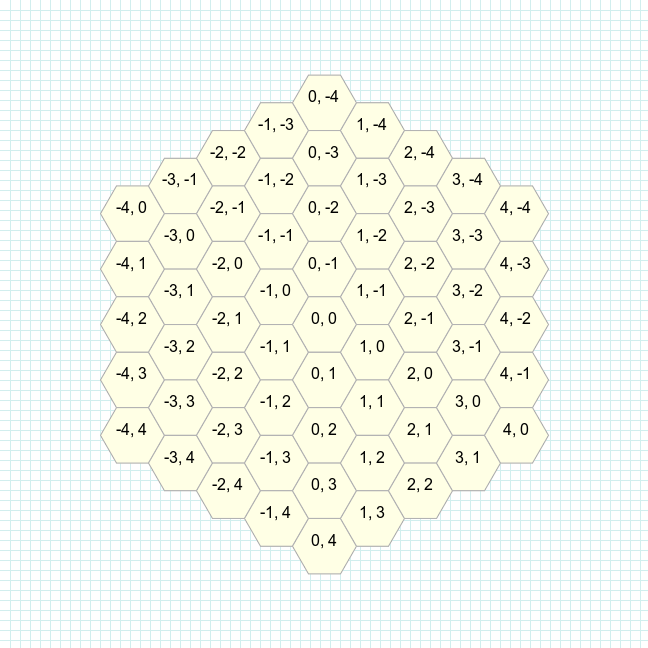
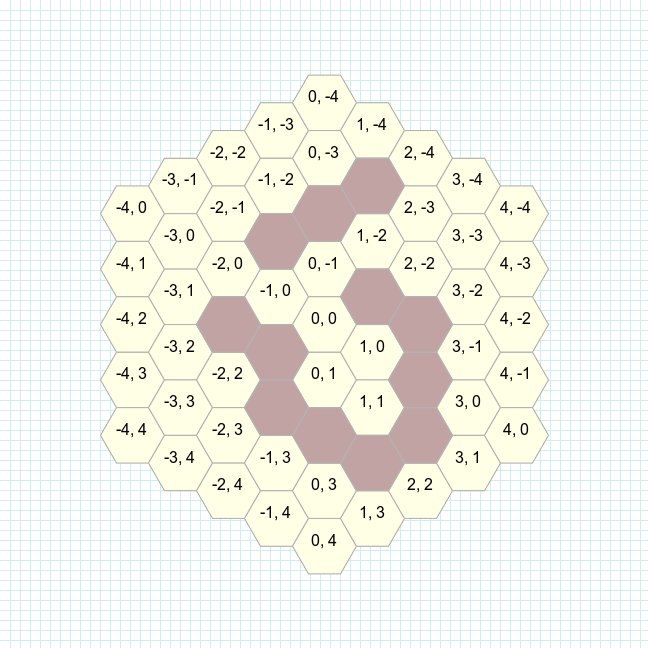
add image_config optional attr

Changed region(s): [[0.3086, 0.4012, 0.7099, 0.7716], [0.3704, 0.2469, 0.6173, 0.4321]]

diff --git a/lib/rhex/cube_hex.rb b/lib/rhex/cube_hex.rb
@@ -28,14 +28,15 @@ module Rhex
     ].freeze
     private_constant :DIRECTION_VECTORS, :INITIAL_RING_VECTOR
 
-    def initialize(q, r, s, data: nil) # rubocop:disable Naming/MethodParameterName
+    def initialize(q, r, s, data: nil, image_config: nil) # rubocop:disable Naming/MethodParameterName
       @q = q
       @r = r
       @s = s
       @data = data
+      @image_config = image_config
     end
 
-    attr_reader :q, :r, :s, :data
+    attr_reader :q, :r, :s, :data, :image_config
 
     def hash
       { q: q, r: r, s: s }.hash
@@ -80,7 +81,7 @@ module Rhex
     def neighbor(direction_index, grid: nil)
       direction_vector = DIRECTION_VECTORS[direction_index] || raise(NotInTheDirectionVectorsList)
 
-      hex = add(Rhex::CubeHex.new(*direction_vector, data: data))
+      hex = add(Rhex::CubeHex.new(*direction_vector, data: data, image_config: image_config))
       hex = grid.hget(hex) unless grid.nil?
       hex
     end
@@ -130,7 +131,7 @@ module Rhex
     end
 
     def to_axial
-      Rhex::AxialHex.new(q, r, data: data)
+      Rhex::AxialHex.new(q, r, data: data, image_config: image_config)
     end
 
     protected
@@ -155,7 +156,7 @@ module Rhex
       else
         rounded_s = -rounded_q - rounded_r
       end
-      Rhex::CubeHex.new(rounded_q, rounded_r, rounded_s, data: data)
+      Rhex::CubeHex.new(rounded_q, rounded_r, rounded_s, data: data, image_config: image_config)
     end
 
     private
@@ -165,16 +166,17 @@ module Rhex
         Math.lerp(q, hex.q, step),
         Math.lerp(r, hex.r, step),
         Math.lerp(s, hex.s, step),
-        data: data
+        data: data,
+        image_config: image_config
       )
     end
 
     def subtract(hex)
-      Rhex::CubeHex.new(q - hex.q, r - hex.r, s - hex.s, data: data)
+      Rhex::CubeHex.new(q - hex.q, r - hex.r, s - hex.s, data: data, image_config: image_config)
     end
 
     def add(hex)
-      Rhex::CubeHex.new(q + hex.q, r + hex.r, s + hex.s, data: data)
+      Rhex::CubeHex.new(q + hex.q, r + hex.r, s + hex.s, data: data, image_config: image_config)
     end
   end
 end

diff --git a/spec/lib/rhex/grid_to_pic_spec.rb b/spec/lib/rhex/grid_to_pic_spec.rb
@@ -4,8 +4,22 @@ require 'spec_helper'
 
 RSpec.describe Rhex::GridToPic do
   describe '#call' do
-    it do
-      described_class.new(grid(4)).call
+    it 'draws image using "image_config" attribute' do
+      obstacle_image_config = Rhex::Draw::Hexagon::ImageConfig.new(
+        hexagon: Rhex::Draw::Hexagon::ImageProperties.new(color: '#C2A3A3', stroke_color: '#B3B3B3'),
+        text: Rhex::Draw::Hexagon::ImageProperties.new(color: '#C2A3A3', stroke_color: '#C2A3A3')
+      )
+
+      grid = grid(4)
+      obstacles = [
+        [1, -1], [2, -1], [2, 0], [2, 1], [1, 2], [0, 2],
+        [-1, 2], [-1, 1], [-2, 1], [-1, -1], [0, -2], [1, -3]
+      ]
+      obstacles.each do |obstacle|
+        grid.hset(Rhex::AxialHex.new(*obstacle, image_config: obstacle_image_config))
+      end
+
+      expect { described_class.new(grid).call }.not_to raise_error
     end
   end
 
@@ -14,7 +28,7 @@ RSpec.describe Rhex::GridToPic do
 
     (-range..range).to_a.each do |q|
       ([-range, -q - range].max..[range, -q + range].min).to_a.each do |r|
-        grid.hset(Rhex::CubeHex.new(q, r, -q - r))
+        grid.hset(Rhex::AxialHex.new(q, r))
       end
     end
 

diff --git a/lib/rhex/draw/hexagon.rb b/lib/rhex/draw/hexagon.rb
@@ -31,8 +31,8 @@ module Rhex
       end
 
       def call
-        draw_hexagon(DEFAULT_IMAGE_CONFIG.hexagon)
-        draw_text(DEFAULT_IMAGE_CONFIG.text)
+        draw_hexagon(image_config.hexagon)
+        draw_text(image_config.text)
       end
 
       private
@@ -41,6 +41,10 @@ module Rhex
 
       def_delegators :hex, :coordinates
       def_delegators :hex, :hex_size
+
+      def image_config
+        hex.image_config || DEFAULT_IMAGE_CONFIG
+      end
 
       def draw_hexagon(config)
         gc.fill(config.color)

diff --git a/lib/rhex/axial_hex.rb b/lib/rhex/axial_hex.rb
@@ -4,8 +4,8 @@ require 'delegate'
 
 module Rhex
   class AxialHex < SimpleDelegator
-    def initialize(q, r, data: nil) # rubocop:disable Naming/MethodParameterName
-      super(Rhex::CubeHex.new(q, r, -q - r, data: data))
+    def initialize(q, r, data: nil, image_config: nil) # rubocop:disable Naming/MethodParameterName
+      super(Rhex::CubeHex.new(q, r, -q - r, data: data, image_config: image_config))
     end
 
     def to_cube
